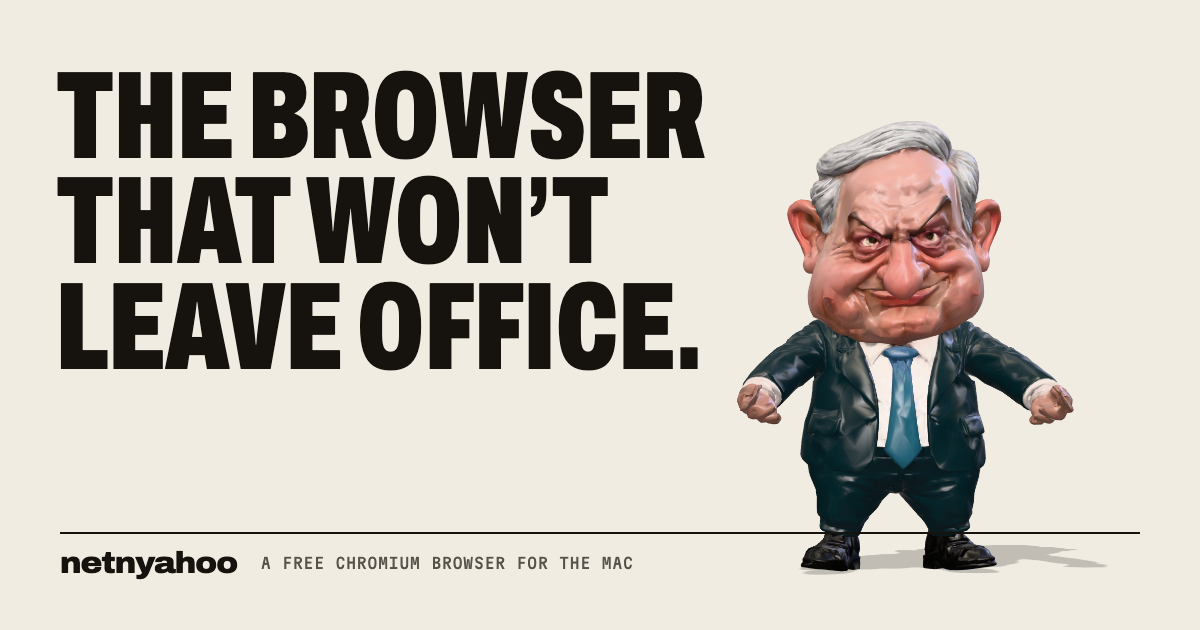
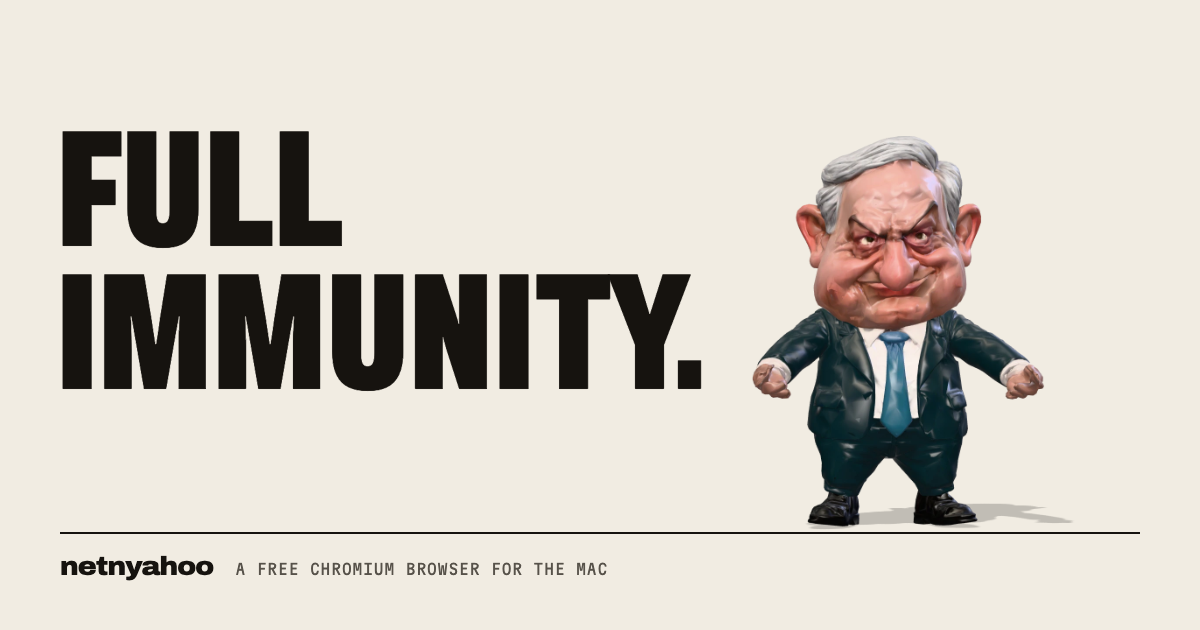
Site: "Full immunity." tagline; address-bar-in-sidebar pledge

Changed region(s): [[0.0308, 0.0905, 0.5858, 0.6333], [0.6167, 0.181, 0.925, 0.9349], [0.0308, 0.8746, 0.5242, 0.9349]]

diff --git a/apps/site/src/data/pledges.ts b/apps/site/src/data/pledges.ts
@@ -1,5 +1,6 @@
 import type { ImageMetadata } from "astro";
-import browse from "../assets/shots/browse.webp";
+import addressToolbar from "../assets/shots/address-toolbar.webp";
+import addressSidebar from "../assets/shots/address-sidebar.webp";
 import split from "../assets/shots/split.webp";
 import plum from "../assets/shots/profile-plum.webp";
 import blue from "../assets/shots/profile-blue.webp";
@@ -24,12 +25,12 @@ export interface Pledge {
 
 export const pledges: Pledge[] = [
   {
-    id: "sidebar",
-    title: "Tabs belong in the sidebar.",
-    body: "Pinned tiles wear the site’s colours. Your wallpaper shows through.",
-    shots: [browse],
-    alt: "The Netnyahoo window in dark mode: three pinned tiles and seven tabs in the sidebar, the project’s GitHub page open.",
-    caption: "The sidebar",
+    id: "address-bar",
+    title: "Dissolves the toolbar.",
+    body: "Put the address bar in the sidebar. The page gets the whole window.",
+    shots: [addressToolbar, addressSidebar],
+    alt: "Two Netnyahoo windows on the same Wikipedia page: behind, the address bar in a toolbar above the page; in front, the address bar in the sidebar under the traffic lights and the page running to the top of the window.",
+    caption: "Before and after",
   },
   {
     id: "split",

diff --git a/apps/site/README.md b/apps/site/README.md
@@ -23,7 +23,8 @@ Pages without a custom domain).
 - **Release notes:** `/release-notes` renders the repo's `docs/release-notes/<version>.md` (one file per version,
   `src/content.config.ts`), newest first, each at `/release-notes#<version>`. The app opens that anchor after it
   updates, so rebuild and redeploy the site when a release ships (`docs/releasing.md`).
-- **Screenshots:** `src/assets/shots/*.webp` are real captures of Netnyahoo 0.1.0: ScreenCaptureKit window
+- **Screenshots:** `src/assets/shots/*.webp` are real captures of Netnyahoo (0.1.0, except `address-*.webp`,
+  the address bar in the toolbar and in the sidebar, from a later build): ScreenCaptureKit window
   captures (2×, transparent outside the window), except `privacy.webp`, the app's own offscreen render of
   that Settings pane (`devSnapshotWindow`, no window frame) because the screen was locked. `game/crowd.webp` is
   a work-in-progress capture of the offline game; its hotspot coordinates are in `Game.astro`. Replace a file
